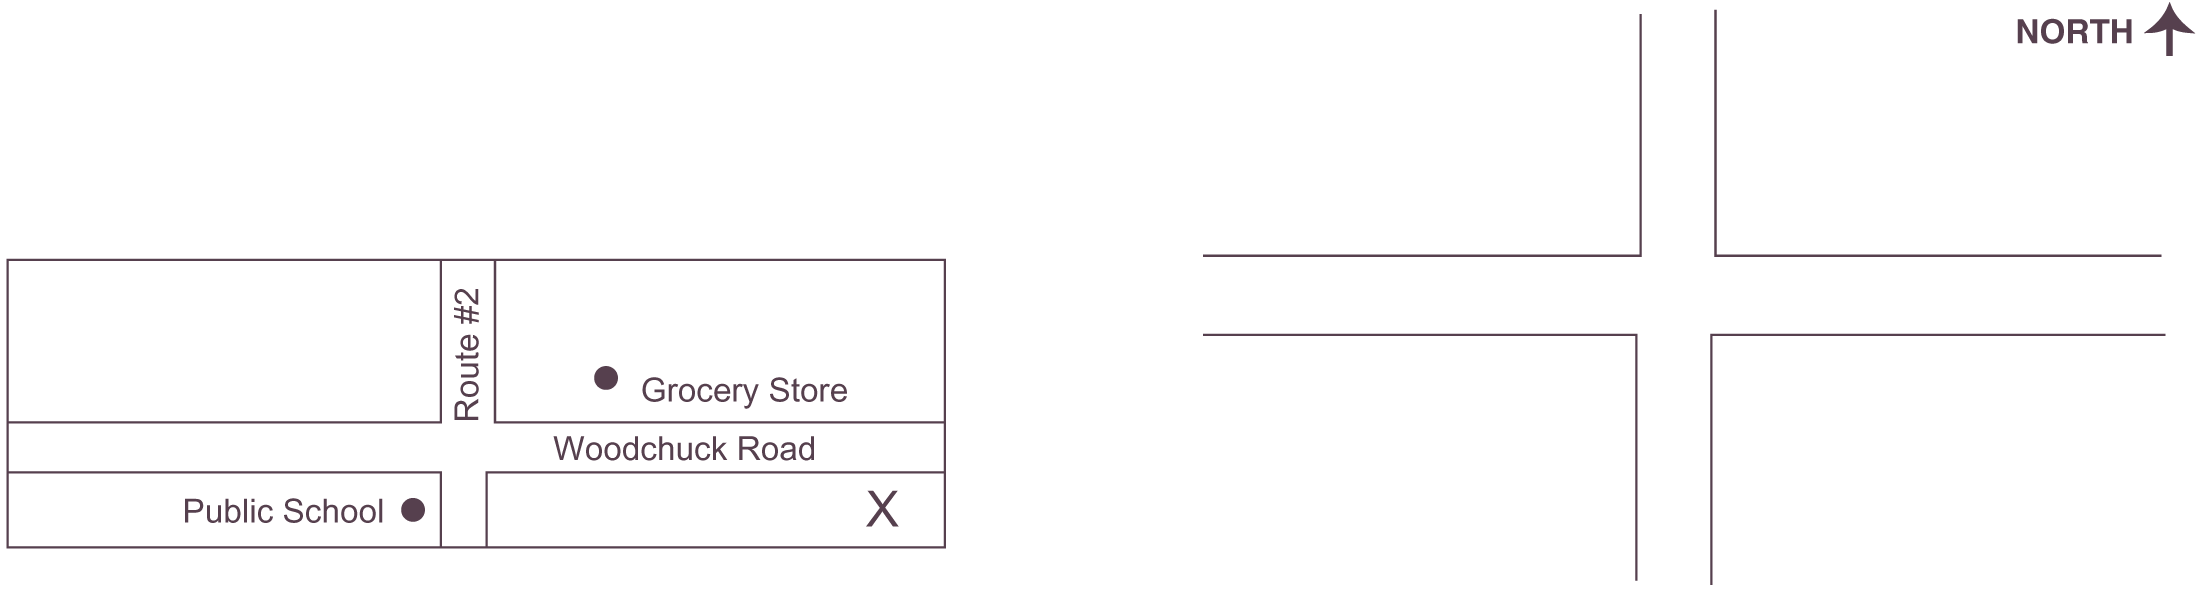
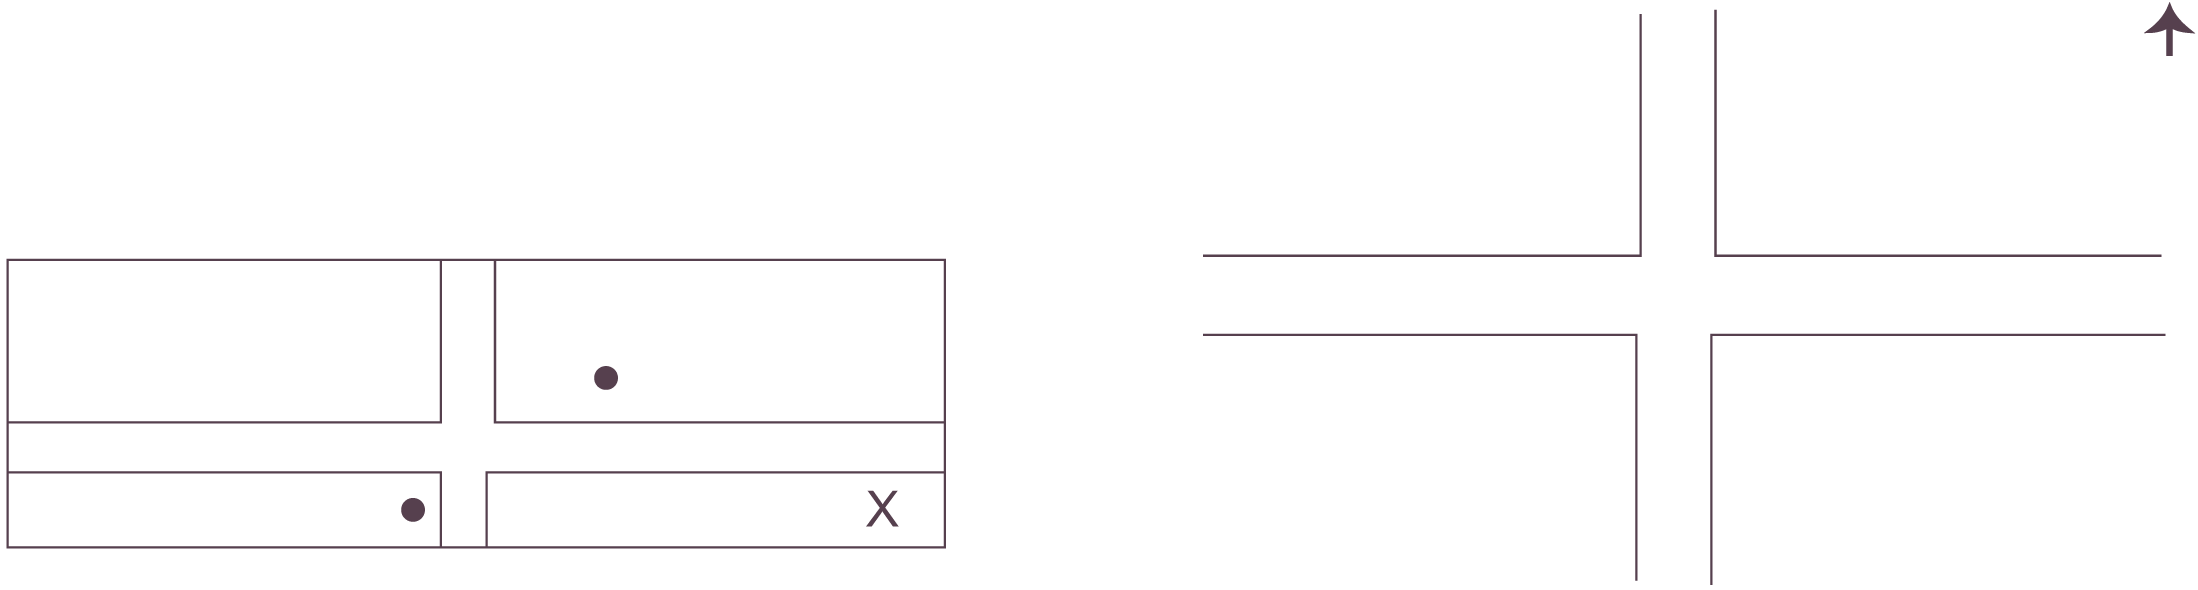
PDF gen finish template, begin variable inserts

diff --git a/app/assets/stylesheets/nvra.css.scss b/app/assets/stylesheets/nvra.css.scss
@@ -23,7 +23,7 @@ b, strong {
 p {
 	padding-bottom: 1em;
 	font-size: $fs;
-	line-height:1.6em;
+	line-height:1.5em;
 }
 
 
@@ -80,6 +80,18 @@ p {
 					list-style-position: outside;
 					list-style-type: decimal;
 					padding-bottom:1em;
+					.mailer {
+						overflow: hidden;
+						padding:20px 0 0;
+						.instructions, .image {
+							float: left;
+						}
+						.instructions {
+							font-size: 1.2 * $fs;
+							width: 425px;
+							padding:50px 80px 0;
+						}
+					}
 				}
 			}
 		}
@@ -88,6 +100,9 @@ p {
 			h4 {
 				text-transform:uppercase;
 				font-size:.7 * $fs;
+				a {
+					text-transform:none;
+				}
 			}
 			width:40%;
 			padding:2.5%;
@@ -95,10 +110,11 @@ p {
 	}
 	
 	h3.bottom_title {
-		padding:1em 0;
-		font-size: 2.5 * $fs;
+		padding:.7em 0;
+		font-size: 1.6 * $fs;
 		line-height:1em;
 		text-transform:uppercase;
+		font-weight: normal;
 	}
 	
 }
@@ -147,6 +163,9 @@ p {
 				div {
 					padding-bottom:.25em;
 					line-height: 1.4em;
+				}
+				.value {
+					float: right;
 				}
 				.item3 {
 					font-weight: bold;
@@ -311,10 +330,10 @@ p {
 			color: $red;
 			font-style: italic;
 			font-weight: bold;
-			font-size: 1.75 * $fs;
+			font-size: 1.5 * $fs;
 		}
 		p.block_title {
-			padding-top:1.25em;
+			padding-top:1em;
 			padding-bottom:.25em;
 			line-height: 1.25em;
 			font-size: $table_label_fs;
@@ -325,7 +344,7 @@ p {
 		}
 		table.form {
 			td {
-				height:105px;
+				height:110px;
 			}
 			tr#blockA {
 				td.box1 {
@@ -360,7 +379,8 @@ p {
 					height: 570px;
 					.address_map_wrapper {
 						position: relative;
-						.instructions {
+						ul.instructions {
+							width: 1150px;
 							position: absolute;
 							top: 0;
 							left: 20px;
@@ -372,23 +392,84 @@ p {
 									line-height:1.25em;
 							}
 						}
-						.example_label {
+						.example {
 							position: absolute;
+						}
+						.label {
 							left: 20px;
-							top: 2800px;
+							top: 280px;
 							text-decoration: underline;
+						}
+						.store {
+							left: 630px;
+							top: 365px;
+						}
+						.school {
+							left: 175px;
+							top:490px;
+						}
+						.street1 {
+							left: 400px;
+							top:330px;
+							-webkit-transform: rotate(-90deg); 
+						}
+						.street2 {
+							left: 550px;
+							top:430px;
+						}
+						.north {
+							position: absolute;
+							left: 2000px;
+							top: 20px;
+							font-weight: bold;
 						}
 					}
 				}
 			}
 		}
+		
+		p.blockD {
+			padding-top:.5em;
+		}
 		h4.bottom_half_footer {
 			color: $red;
 			text-align: center;
 			font-weight: bold;
-			font-size: 1.75 * $fs;
-			padding-top: .5em;
+			font-size: 1.5 * $fs;
+			line-height:1.5em;
+			padding-top: .25em;
+			padding-bottom:.25em;
 		}
 	}
 }
 
+#page_3 {
+	#page_3_wrapper {
+		position: relative;
+		height: 3300px;
+		overflow:hidden;
+		#page_3_background {
+			img {
+				width:$page_width;
+				top:0;
+			}
+		}
+		h1 {
+			width: $page_width;
+			position: absolute;
+			top: 100px;
+			text-align:center;
+			color:white;
+			font-size: 2 * $fs;
+		}
+		#address {
+			position: absolute;
+			top: 2540px;
+			left: 450px;
+			font-size: 1.25 * $fs;
+			.line {
+				line-height: 2.8 * $fs;
+			}
+		}		
+	}
+}

diff --git a/app/models/registrant.rb b/app/models/registrant.rb
@@ -585,6 +585,16 @@ class Registrant < ActiveRecord::Base
   def home_state_not_participating_text
     localization.not_participating_tooltip
   end
+  
+  def registration_deadline
+    localization.registration_deadline
+  end
+  
+  def registration_instructions_url
+    RockyConf.pdf.nvra.page1.other_block.instructions_url.gsub(
+      "<LOCALE>",locale
+    ).gsub("<STATE>",home_state_abbrev)
+  end
 
   def under_18_instructions_for_home_state
     I18n.t('txt.registration.instructions.under_18',
@@ -763,8 +773,18 @@ class Registrant < ActiveRecord::Base
   end
 
   def generate_pdf
+    return false if self.locale.nil? || self.home_state.nil?
+    renderer = PdfRenderer.new
+    renderer.locale=self.locale
+    renderer.registrant=self
+    renderer.state=self.home_state
     pdf = WickedPdf.new.pdf_from_string(
-      PdfRenderer.new.render_to_string('registrants/registrant_pdf.html.haml', :layout => 'layouts/nvra', :locale=>self.locale)
+      renderer.render_to_string(
+        'registrants/registrant_pdf.html.haml', 
+        :layout => 'layouts/nvra'
+      ),
+      :disable_internal_links         => false,
+      :disable_external_links         => false
     )
     
     File.open("tmpPdfGen.pdf", "wb") do |f|
@@ -1096,7 +1116,16 @@ class Registrant < ActiveRecord::Base
   def yes_no(attribute)
     attribute ? "Yes" : "No"
   end
-
+  
+  def method_missing(sym, *args)
+    if sym.to_s =~ /^yes_no_(.+)$/
+      attribute = $1
+      return self.send(:yes_no, (self.send(attribute)))
+    else
+      super
+    end
+  end
+  
   def ineligible_reason
     case
     when ineligible_non_citizen? then "Not a US citizen"

diff --git a/db/schema.rb b/db/schema.rb
@@ -11,7 +11,7 @@
 #
 # It's strongly recommended to check this file into your version control system.
 
-ActiveRecord::Schema.define(:version => 20130822180236) do
+ActiveRecord::Schema.define(:version => 20130927204214) do
 
   create_table "delayed_jobs", :force => true do |t|
     t.integer  "priority",   :default => 0
@@ -213,6 +213,7 @@ ActiveRecord::Schema.define(:version => 20130822180236) do
     t.datetime "updated_at",                                :null => false
     t.string   "party_tooltip",             :limit => 1024
     t.string   "sub_18"
+    t.string   "registration_deadline"
   end
 
   add_index "state_localizations", ["state_id"], :name => "index_state_localizations_on_state_id"

diff --git a/lib/pdf_renderer.rb b/lib/pdf_renderer.rb
@@ -3,9 +3,23 @@ class PdfRenderer < AbstractController::Base
   include AbstractController::Helpers
   include AbstractController::Translation
   include AbstractController::AssetPaths
+  include ActionView::Helpers::UrlHelper
   include Rails.application.routes.url_helpers
   helper ApplicationHelper
   
   self.view_paths = "app/views"
+  
+  attr_accessor :registrant
+  attr_accessor :state
+  
+  def registrant=(value)
+    @registrant  = value
+    set_registrant_instructions_link
+  end
+  
+  def set_registrant_instructions_link
+    url = self.registrant.registration_instructions_url
+    @registrant_instructions_link = link_to url, url
+  end
   
 end

diff --git a/lib/state_importer.rb b/lib/state_importer.rb
@@ -42,7 +42,7 @@ class StateImporter
 
   #list of conf_keys with values that are I18n key-parts
   def self.state_localizations
-    %w(not_participating_tooltip race_tooltip party_tooltip no_party id_number_tooltip sub_18)
+    %w(not_participating_tooltip race_tooltip party_tooltip no_party id_number_tooltip sub_18 registration_deadline)
   end
   
   #list of conf_keys with values that are arrays

diff --git a/db/migrate/20130927204214_add_reg_deadline_to_state_localizations.rb b/db/migrate/20130927204214_add_reg_deadline_to_state_localizations.rb
@@ -1,0 +1,5 @@
+class AddRegDeadlineToStateLocalizations < ActiveRecord::Migration
+  def change
+    add_column :state_localizations, :registration_deadline, :string
+  end
+end
